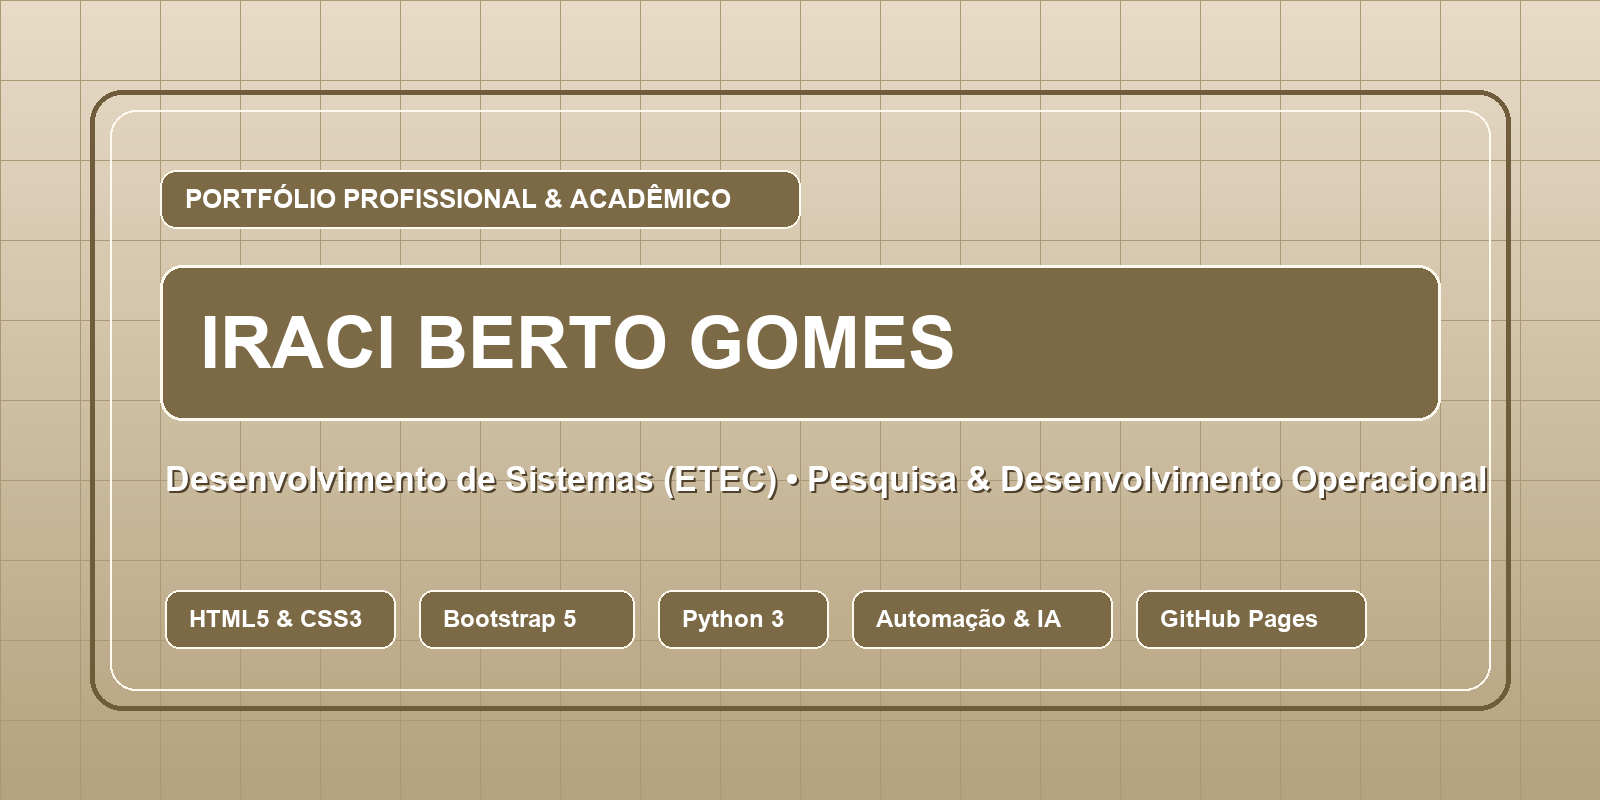
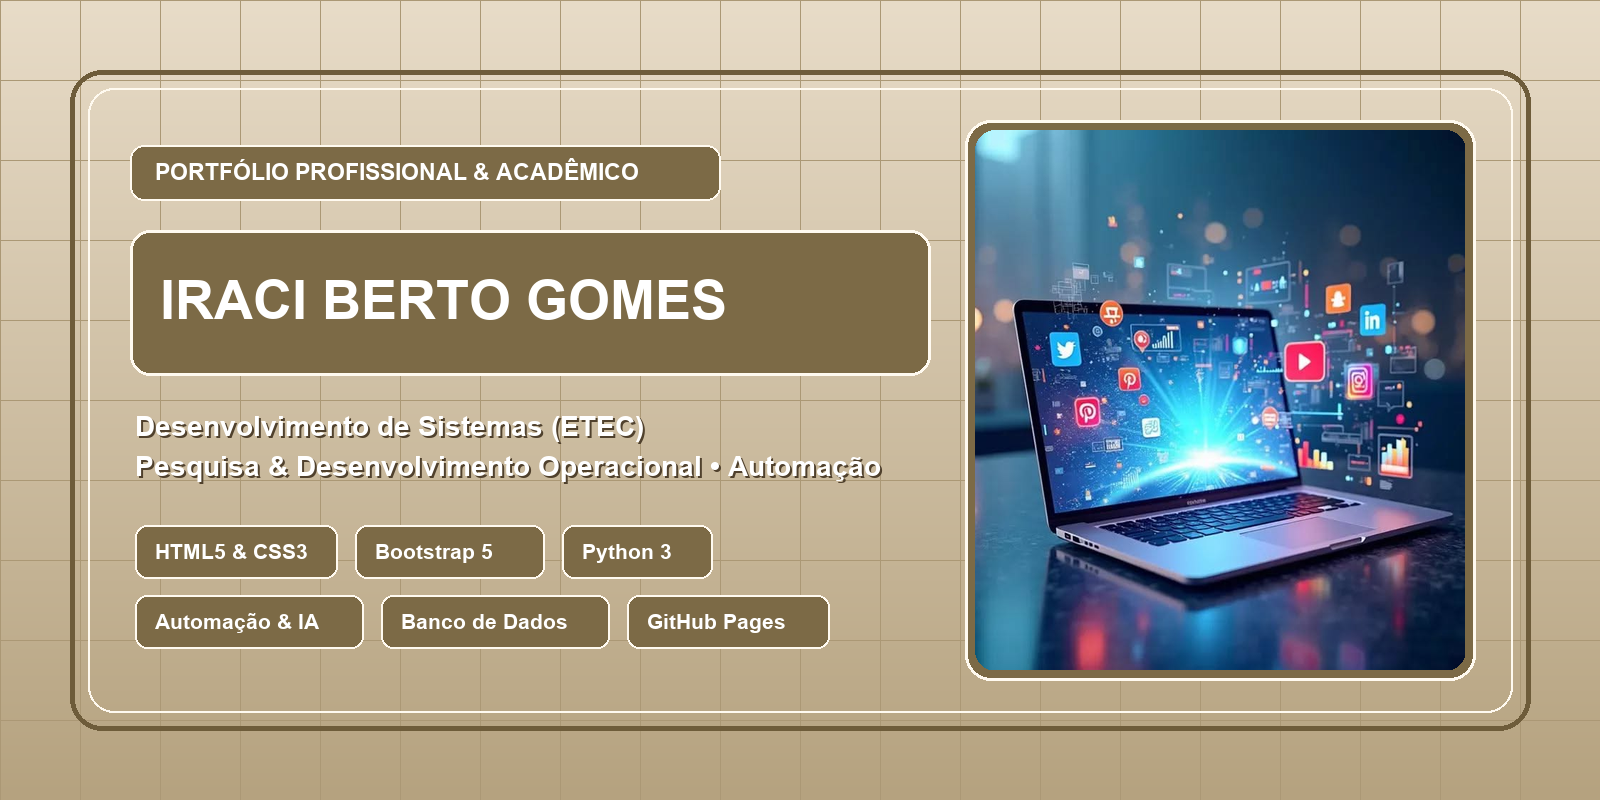
feat: atualiza slides 1, 2 e 3 do carousel com ilustracoes tematicas e README

diff --git a/README.md b/README.md
@@ -29,7 +29,10 @@ Este projeto é o meu **Portfólio Pessoal e Profissional**, desenvolvido e evol
 ## ⚙ Explicação do Funcionamento do Projeto
 O site funciona em formato de página única (*Single Page*) responsiva, adaptando-se automaticamente a celulares, tablets e computadores:
 1. **Menu de Navegação (`Navbar`):** Fixado no topo (`sticky-top`), possui links internos com fonte branca destacada (`#perfil`, `#formacao`, `#projetos`, `#contato`) que rolam suavemente até cada seção da página. Em telas menores, converte-se em botão recolhível (*hambúrguer*).
-2. **Área de Destaque (`Carousel`):** Posicionada logo abaixo da Navbar, apresenta 3 slides em tela ampla (`85vh`) com transição suave (`carousel-fade`), indicadores inferiores e botões laterais.
+2. **Área de Destaque (`Carousel`):** Posicionada logo abaixo da Navbar, apresenta 3 slides personalizados em tela ampla (`85vh`) com transição suave (`carousel-fade`), combinando a paleta em Bege e Cáqui com ilustrações temáticas de tecnologia e inovação:
+   * **Slide 1 (`imagens/slide1.png`):** *Portfólio Profissional & Acadêmico — Iraci Berto Gomes* (Interfaces Digitais, Web e Automação);
+   * **Slide 2 (`imagens/slide2.png`):** *Formação Acadêmica & Trajetória — Gestão, Logística & TI* (Conectividade Global, Senac, UNIP e ETEC);
+   * **Slide 3 (`imagens/slide3.png`):** *Projetos Reais no GitHub — Soluções Digitais & Web* (Ecossistema de Aplicações e Automação).
 3. **Seção de Perfil (`#perfil`):** Apresenta minha foto de perfil circular, resumo profissional, 4 cards de informações rápidas (Localização, Área de interesse, Formação e Objetivo) e 2 cards listando as tecnologias e ferramentas com ícones `Devicon`.
 4. **Seção de Formação Acadêmica (`#formacao` — Recurso Novo):** Destaca minha trajetória acadêmica em 3 cards estruturados.
 5. **Seção de Projetos (`#projetos`):** Exibe os cards dos meus 6 projetos reais publicados no GitHub (`AGENDA_13`, `AGENDA_11`, `AGENDA_12`, `Novo-simulador`, `projetos` e `nutri-berto`), com botões funcionais que levam diretamente aos sites e repositórios.
